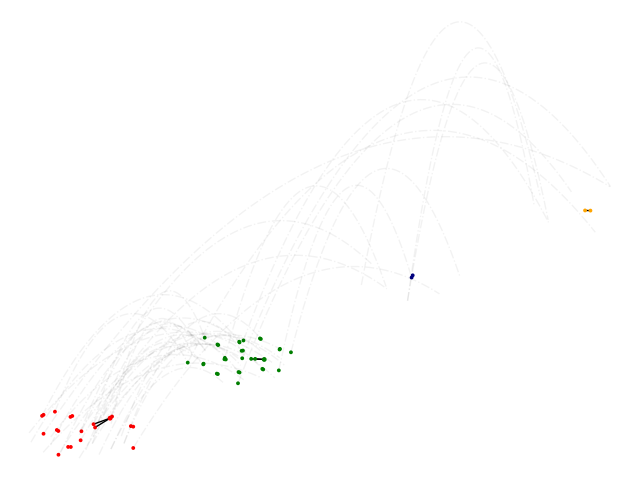
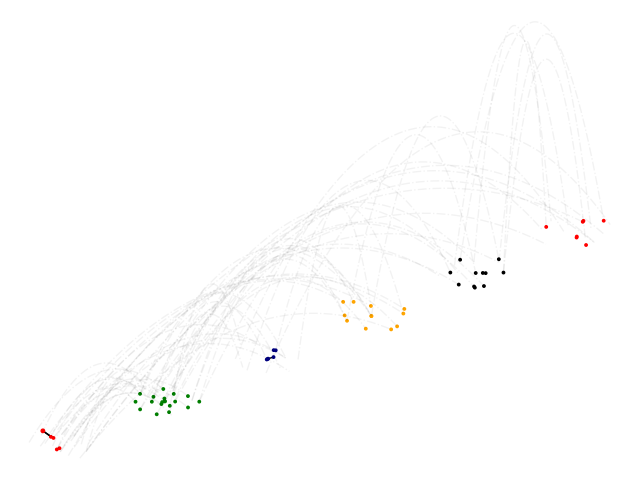
added example animation

diff --git a/examples/example_animation.py b/examples/example_animation.py
@@ -10,8 +10,7 @@ import numpy as np
 fig = plt.figure()
 folder_tmp_files = "../datasets/animation"
 def animate(mnod):
-    lx = np.random.randint(2,10,1)[0]
-    ER_multilayer = random_generators.random_multilayer_ER(mnod,lx,0.005,directed=False)
+    ER_multilayer = random_generators.random_multilayer_ER(mnod,6,0.005,directed=False)
     fx = ER_multilayer.visualize_network(show=False)
     plt.savefig("{}{}.png".format(folder_tmp_files,mnod))
 imrange = [100,150,200,300,500,250,600] 
